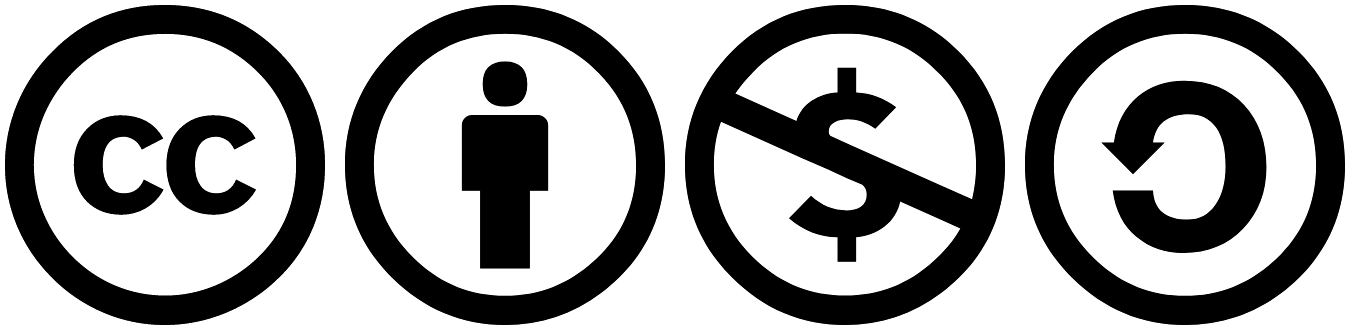
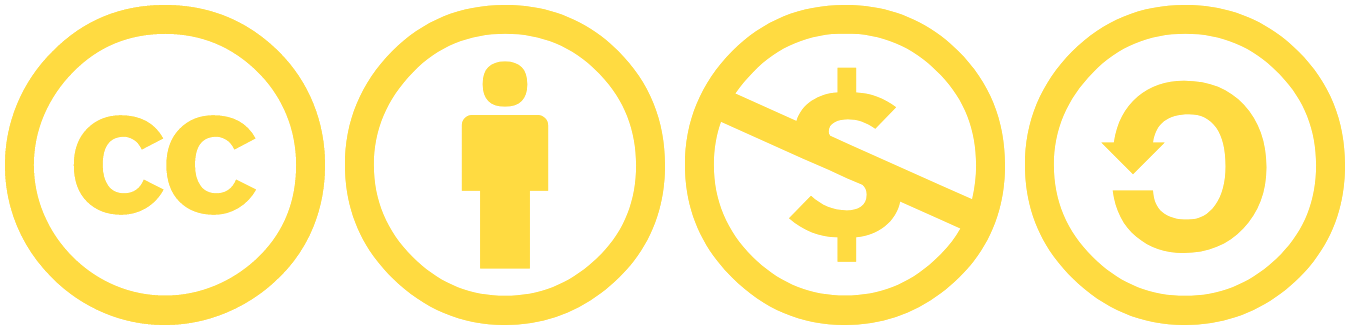
Add copyright section

diff --git a/tomba-club-vector/layout.scss b/tomba-club-vector/layout.scss
@@ -714,4 +714,32 @@ body {
   #footer-copyrightico {
     display: none;
   }
+  // This is our custom notice. Move it to the left column manually.
+  #footer-places-tc_copyright {
+    position: absolute;
+    top: math.div($layout-padding-v-content, 2) + 0.16em; // todo: not sure why this 0.15em is needed.
+    left: ($layout-side-nav-padding-left - $layout-side-nav-header-offset-left + $layout-left-inset-content);
+
+    .tc-copyright {
+      .license-text {
+        display: block;
+        padding-bottom: 0;
+
+        a {
+          color: $color-white;
+        }
+      }
+      .license-image {
+        display: block;
+        padding-top: 0.15em;
+
+        img {
+          width: 7em;
+          height: auto;
+          position: relative;
+          left: -0.05em;
+        }
+      }
+    }
+  }
 }

diff --git a/readme.md b/readme.md
@@ -56,7 +56,16 @@ function tombaWikiFooter($skin, $key, &$footerlinks) {
     return;
   }
   
+  $licenseUrl = 'https://creativecommons.org/licenses/by-nc-sa/4.0/';
+  $licenseImage = '/resources/design/tomba-club-vector-v2/images/cc-by-nc-sa.png';
+  
   $footerlinks['tc_version'] = Html::rawElement('span', ['class' => 'tc-version'], 'MediaWiki '.MW_VERSION);
+  $footerlinks['tc_copyright'] = '
+    <div class="tc-copyright">
+      <span class="license-text">Licensed under <a href="'.$licenseUrl.'">CC BY-NC-SA 4.0</a>.</span>
+      <span class="license-image"><a href="'.$licenseUrl.'"><img src="'.$licenseImage.'" width="62" height="15" /></a></span>
+    </div>
+  ';
 }
 
 $wgHooks['BeforePageDisplay'][] = 'tombaWikiCustomizations';
